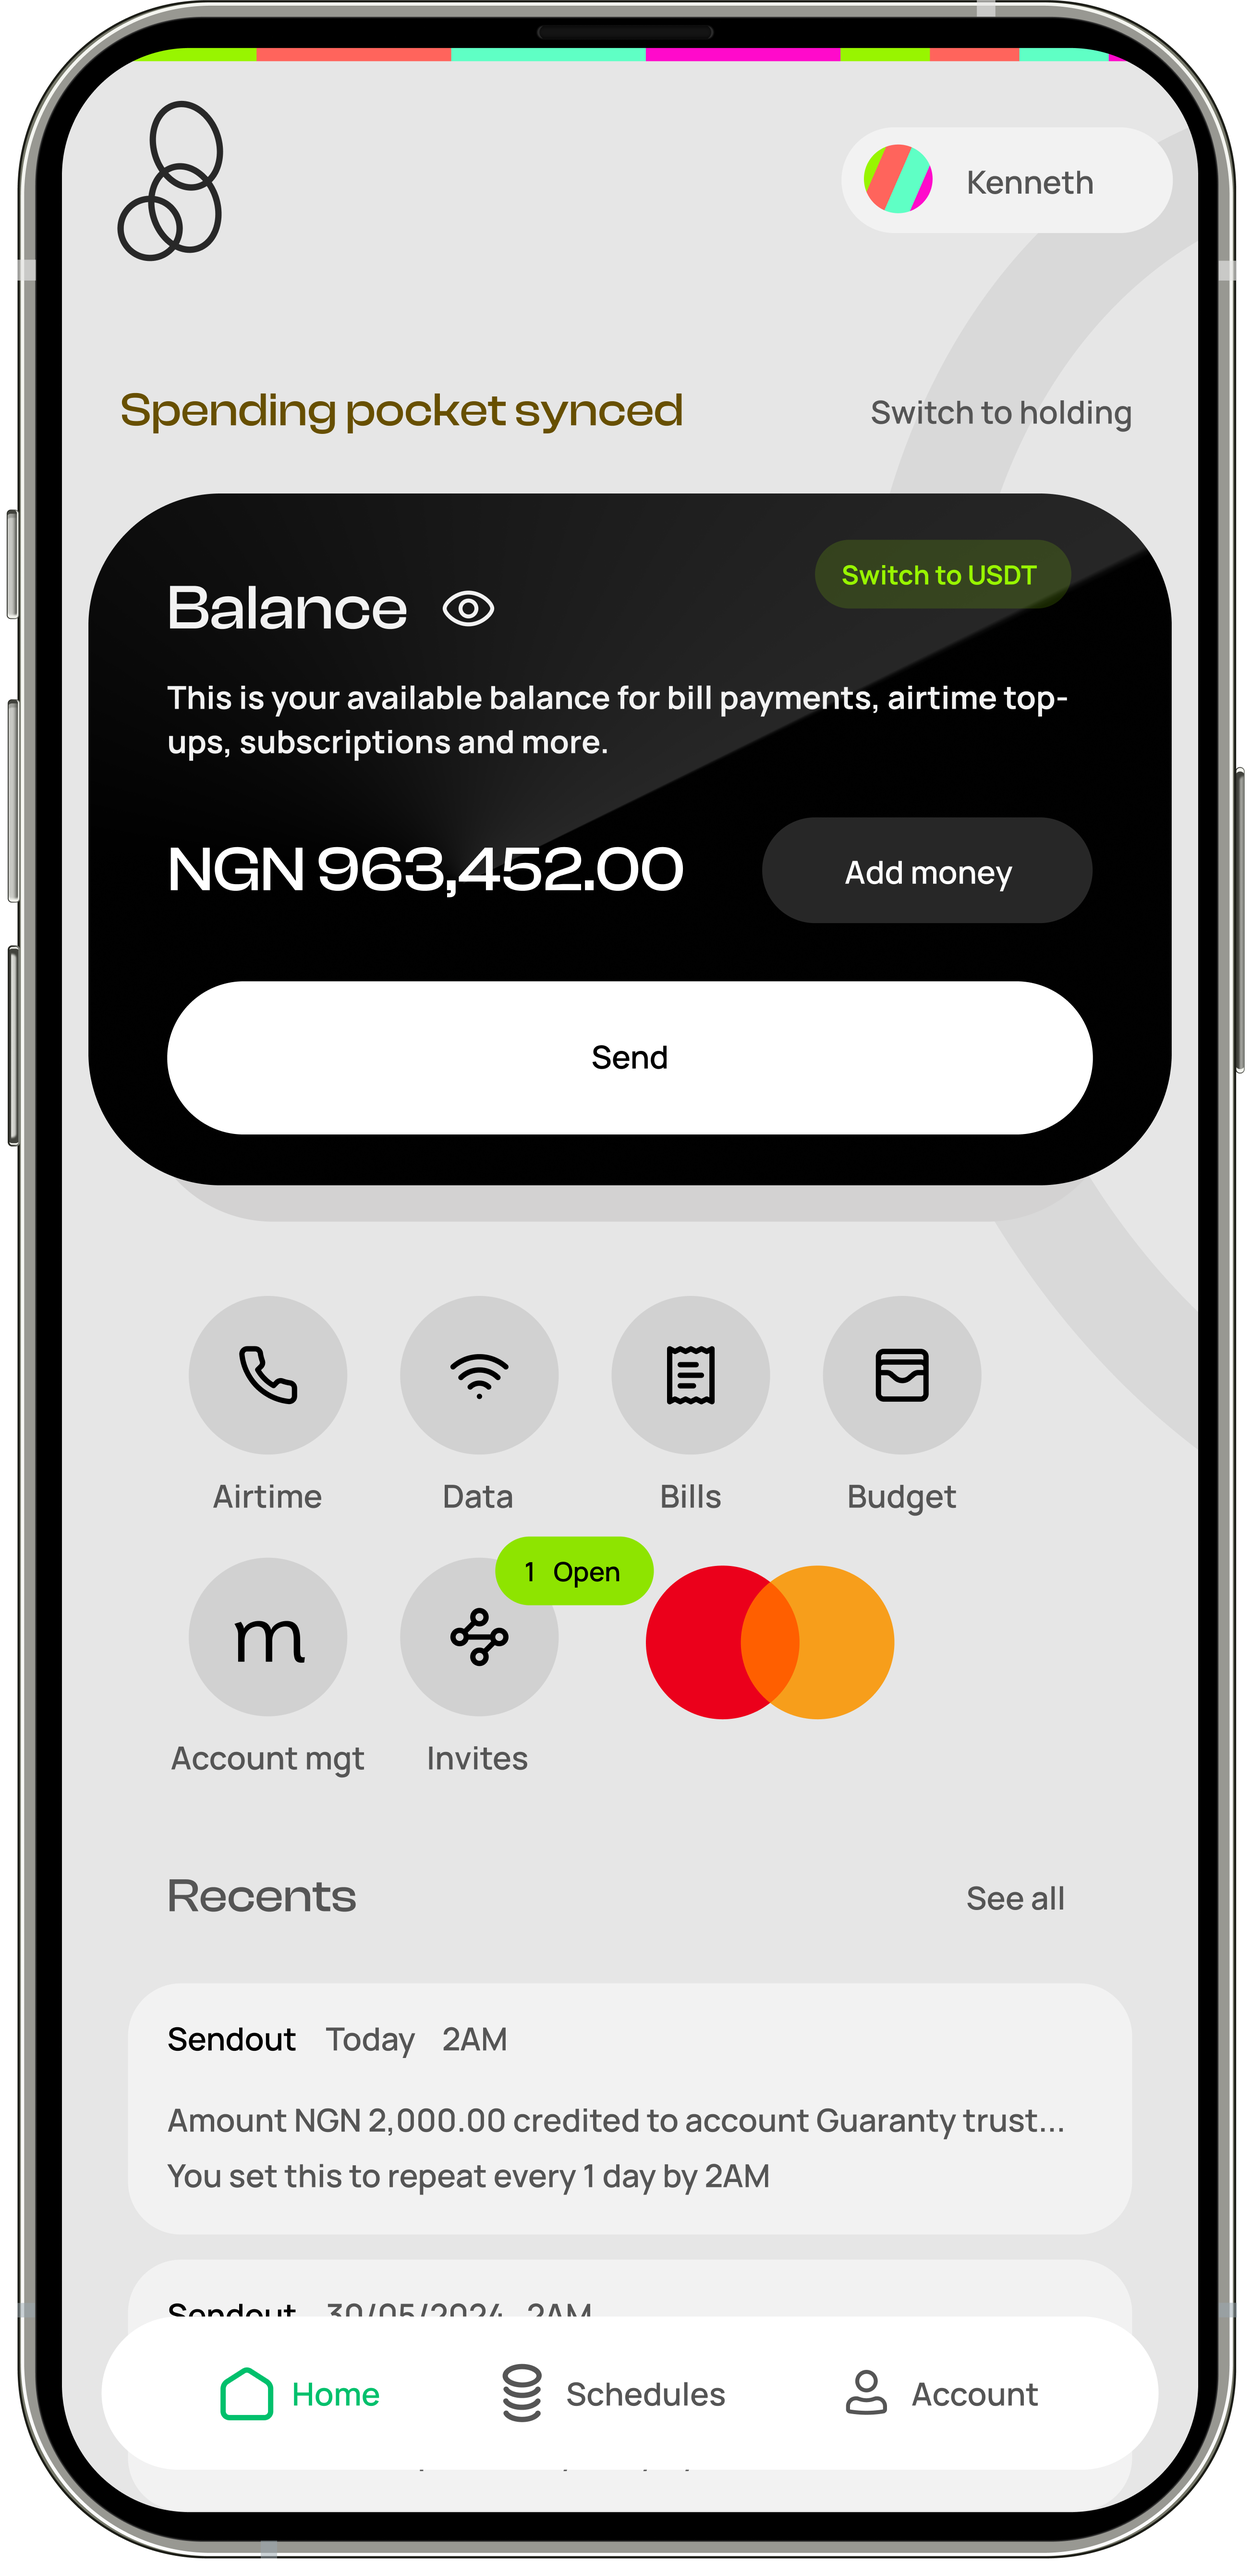
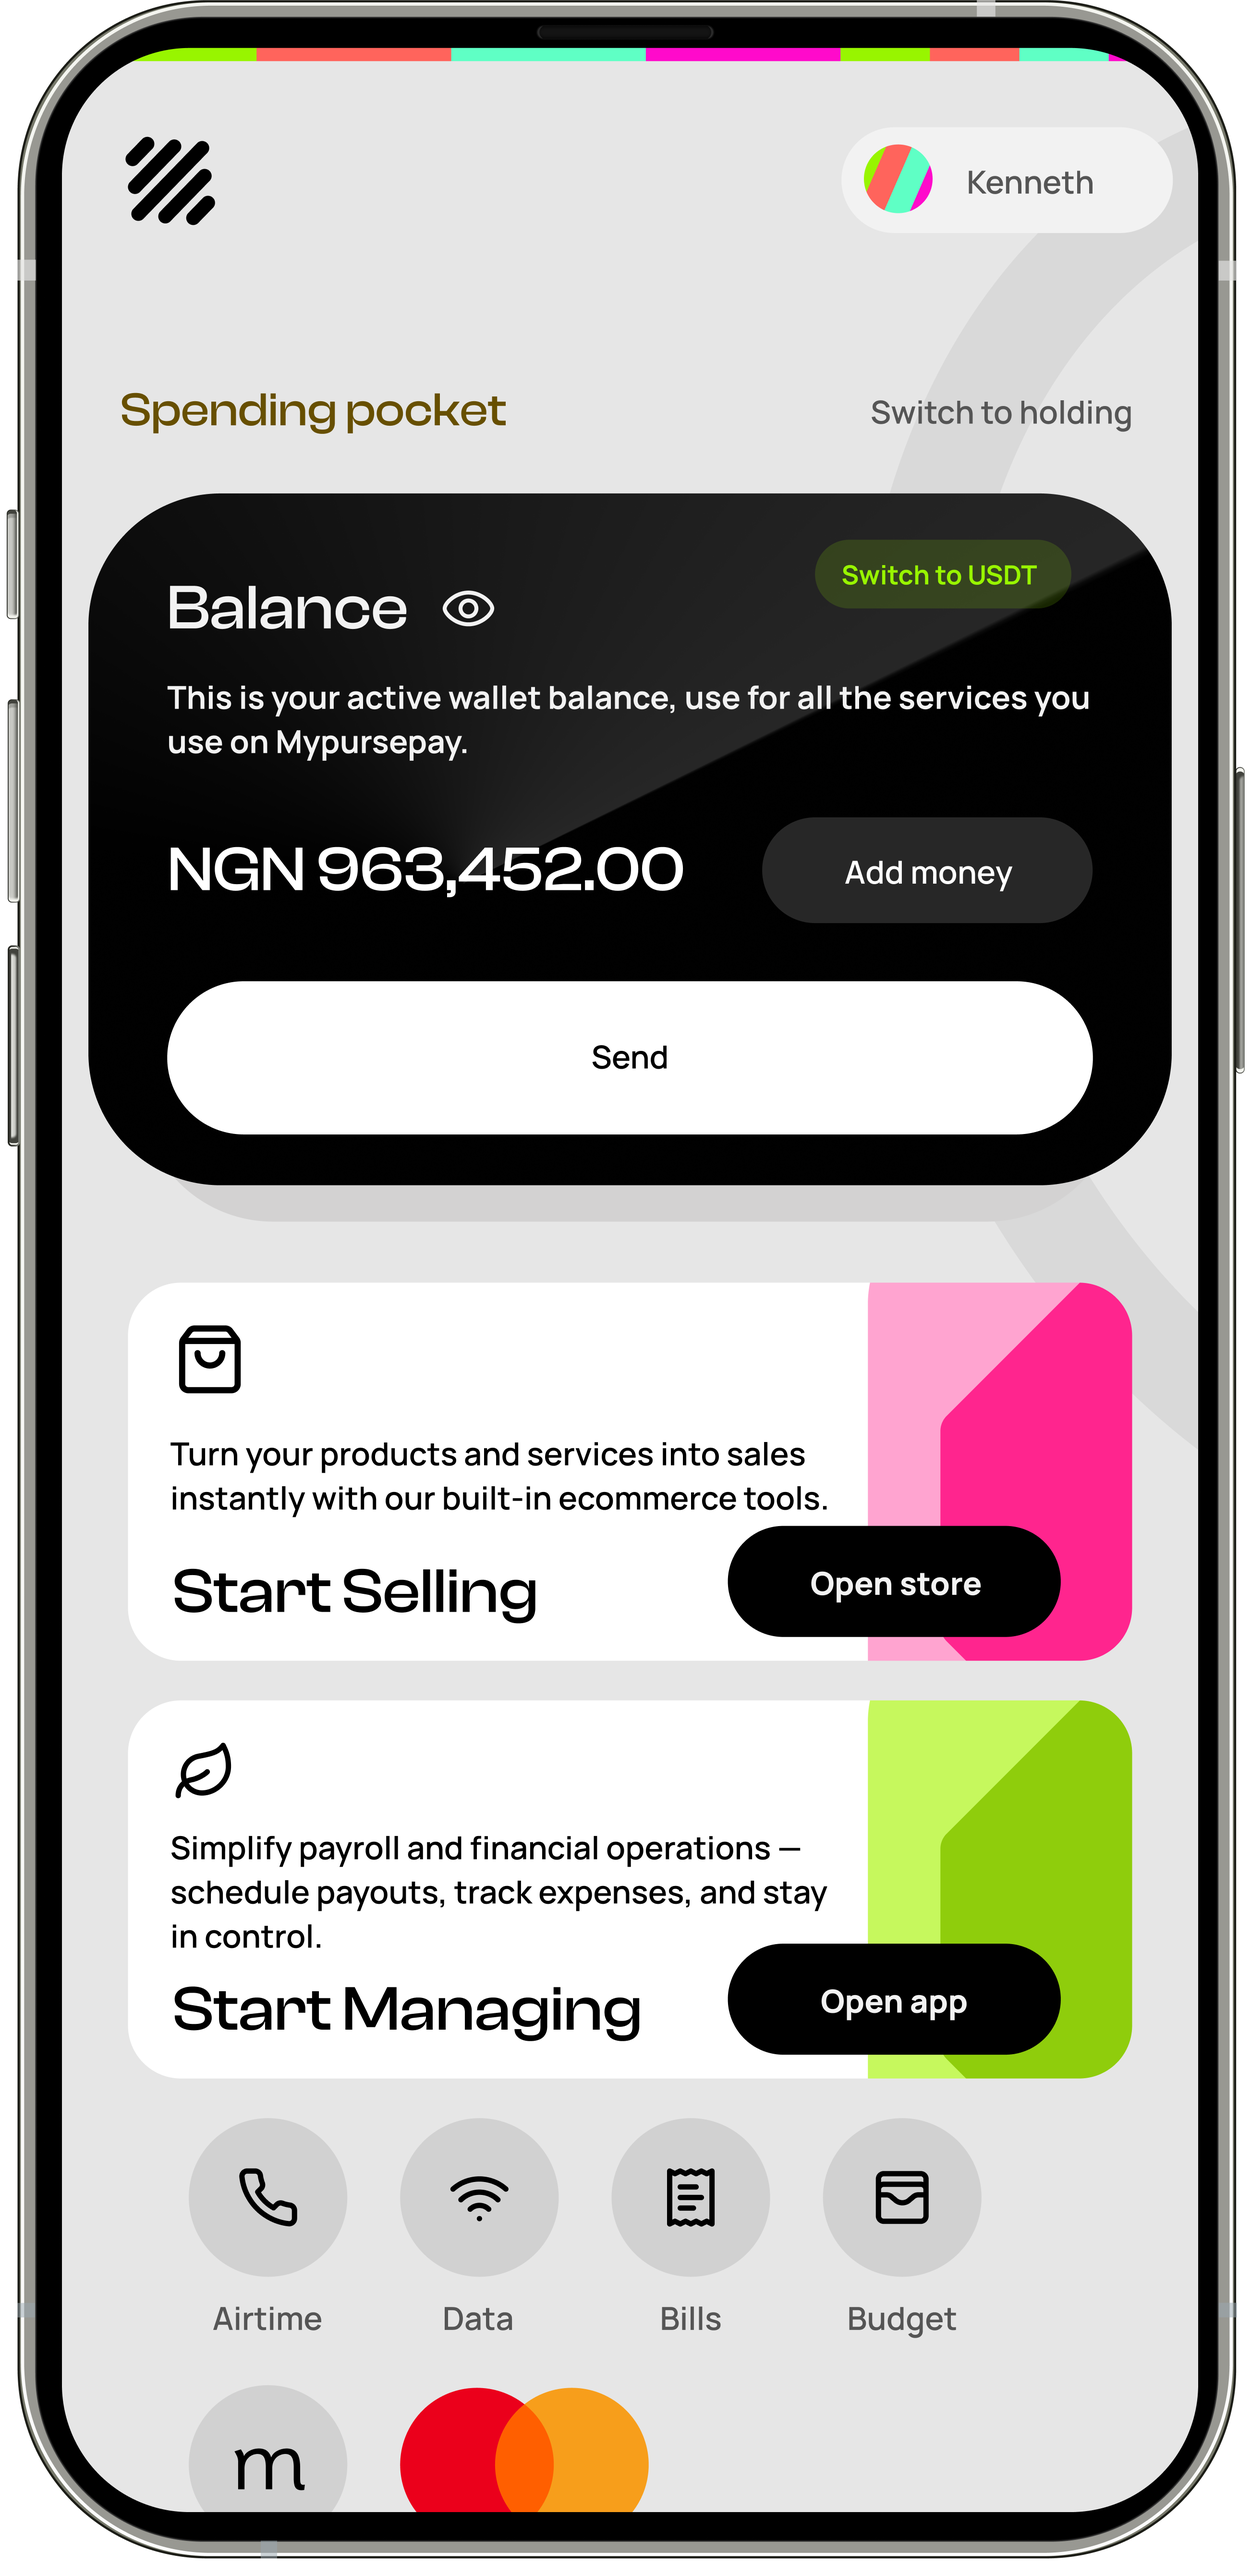
changes

diff --git a/index.html b/index.html
@@ -3,7 +3,7 @@
   <head>
     <meta charset="UTF-8" />
     <meta name="viewport" content="width=device-width, initial-scale=1.0" />
-    <title>My Purse Pay</title>
+    <title>Mypursepay for commerce</title>
     <link rel="apple-touch-icon" sizes="120x120" href="apple-touch-icon.png" />
     <link rel="icon" type="image/png" sizes="32x32" href="favicon-32x32.png" />
     <link rel="icon" type="image/png" sizes="16x16" href="favicon-16x16.png" />
@@ -46,34 +46,34 @@
             <div class="p1">
               <h2>Products</h2>
               <br>
-              <p>MYPURSE is committed to developing frontier financial technology products for everyone. Find out how we can help you or your business thrive in todays digital economy and do that with the most innovative and secure products available.</p>
+              <p>We are committed to developing an ecosystem that supports resilient and reliable commerce across the globe by developing frontier products and providing first class support across the board.</p>
             </div>
             <div class="p2">
               <div class="pitem">
-                <img src="public/resource/mf.svg" alt="">
-                <div>Fintech Saas</div>
+                <img src="public/resource/mss.svg" alt="">
+                <div>Stores on mypursepay</div>
               </div>
               <div class="pitem">
                 <img src="public/resource/ml.svg" alt="">
-                <div>Lending Saas</div>
+                <div>Logistics on mypursepay</div>
               </div>
               <div class="pitem">
                 <img src="public/resource/me.svg" alt="">
-                <div>Escrow Saas</div>
+                <div>Enterprise on mypursepay</div>
               </div>
               <div class="pitem">
                 <img src="public/resource/mb.svg" alt="">
-                <div>Mypurse for business</div>
+                <div>Business (SME) on mypursepay</div>
               </div>
               <div class="pitem">
                 <img src="public/resource/ms.svg" alt="">
-                <div>Mypurse for schools</div>
+                <div>Schools on mypursepay</div>
               </div>
             </div>
           </div>
         </div>
         <a class="btn" href="https://app.mypursepay.com/">Sign in</a>
-        <a id="appleStoreButton" class=" halt btn">App Store</a>
+        <!-- <a id="appleStoreButton" class=" halt btn">App Store</a>
         <a
           id="googlePlayButton"
           href="https://play.google.com/store/apps/details?id=ng.com.mypursepay.app"
@@ -82,7 +82,7 @@
           style="display: none; text-decoration: none;"
         >
           Play Store
-        </a>
+        </a> -->
       </div>
       
     </nav>
@@ -105,7 +105,7 @@
           <div class="mp_intro_101">
             <h1 class="min-set">
               <div class="morph-container">
-                <span id="morphTarget">Money & finance</span>
+                <span id="morphTarget">Commerce +</span>
                 <img id="productIcon" class="product-icon" src="public/resource/mf.svg" alt="Product Icon" />
               </div>
               <br>
@@ -120,13 +120,12 @@
         isAnimating: false,
         currentIndex: 0,
         phrases: [
-            { text: "Money & finance", icon: "public/resource/mf.svg" },
-            { text: "Lending infra", icon: "public/resource/ml.svg" },
-            { text: "Fintech infra", icon: "public/resource/mf.svg" },
+            { text: "Logistics", icon: "public/resource/ml.svg" },
+            { text: "Ecommerce", icon: "public/resource/mf.svg" },
             { text: "School payments", icon: "public/resource/ms.svg" },
-            { text: "Business infra", icon: "public/resource/mb.svg" },
-            { text: "Escrow infra", icon: "public/resource/me.svg" },
-            { text: "Digital payments", icon: "public/resource/mf.svg" }
+            { text: "SME infra", icon: "public/resource/mb.svg" },
+            { text: "Enterprise infra", icon: "public/resource/me.svg" },
+            { text: "Sales infra", icon: "public/resource/mf.svg" }
         ]
     };
     
@@ -233,9 +232,9 @@
 
          
             <p class="min-set">
-           <p class="drew">  AI driven payments infrastracture, crypto and personal finance platform.</p>
+           <p class="drew">  AI driven commerce infrastructure, powered by partnerships & relationships</p>
               <br />
-Budget smarter, send and receive money across multiple channels, access secure escrow services, and take charge of your financial life with modern finance intelligence and security.
+Mypursepay is an embedded commercial platform for individuals, businesses, and institutions. From ecommerce to education, payroll to logistics, we provide the infrastructure to sell, pay, and grow — all in one place.
             </p>
             <br>
             <a href="https://app.mypursepay.com"><span class="button">Get onboard now</span></a>
@@ -269,13 +268,13 @@ Budget smarter, send and receive money across multiple channels, access secure e
         <div class="mp_intro_1">
             <div class="mp_intro_101 x09">
               <h1 style="position: relative;">
-                <span id="morphingTitle">Schedules for smart pockets</span>
+                <span id="morphingTitle">Ecosystem you can rely on</span>
                 <span id="morphingGhost" aria-hidden="true" style="visibility: hidden; position: absolute; inset: 0; pointer-events: none;"></span>
                 <img src="public/resource/pursemind.png" class="pursemind" alt="Feature icon" />
               </h1>
               
                 <p id="morphingDescription">
-                    Set personalized daily spending limits to keep your budget on track. Allocate NGN 300,000 for groceries, and MyPurse automatically releases NGN 10,000 daily to your spending account—ensuring controlled, consistent expense management without manual tracking.
+                 At the heart of Mypursepay is a secure, intelligent ecosystem that powers all core products. From ecommerce to payroll, personal finance to data, every transaction flows seamlessly across one ecosystem, connecting thousands of individuals, businesses, and institutions through trusted financial & commercial relationships.
                 </p>
                 <br>
                 <a href="https://app.mypursepay.com"><span class="button">Get onboard now</span></a>
@@ -283,7 +282,7 @@ Budget smarter, send and receive money across multiple channels, access secure e
         </div>
     </section>
 
-    <script>
+    <!-- <script>
       (function() {
           'use strict';
           
@@ -406,7 +405,7 @@ Budget smarter, send and receive money across multiple channels, access secure e
               initMorphCycle();
           }
       })();
-  </script>
+  </script> -->
 
   <section class="mp_third">
         <div class="mp_third_1">
@@ -444,7 +443,7 @@ Budget smarter, send and receive money across multiple channels, access secure e
                         counter: 0.9,
                         counterSuffix: '%',
                         headline: "Transaction fees",
-                        description: "With the lowest charges on any payments infrastructure, MyPurse caps all transaction fees at 0.9%—across transfers, crypto, bills, and more. Transparent. Predictable. Built to keep your money in motion, not locked in overhead."
+                        description: "With the lowest charges on any commercial infrastructure, Mypursepay caps all transaction fees at 0.9%. Transparent. Predictable."
                     }
                 ]
             };
